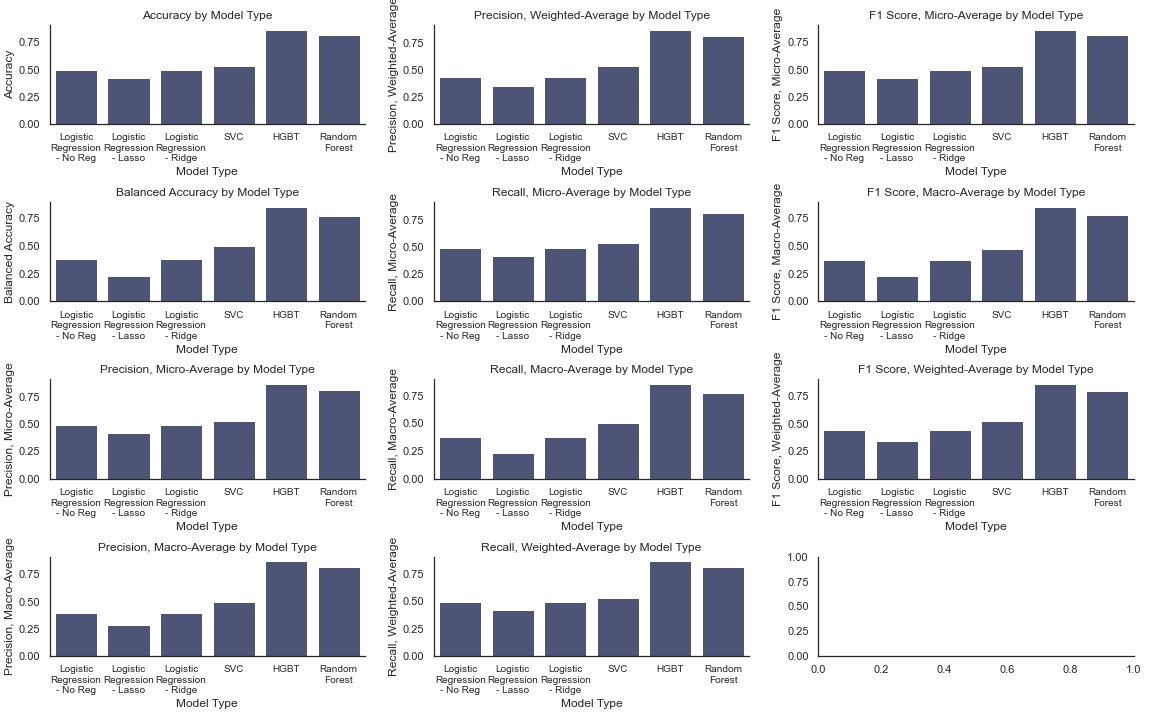
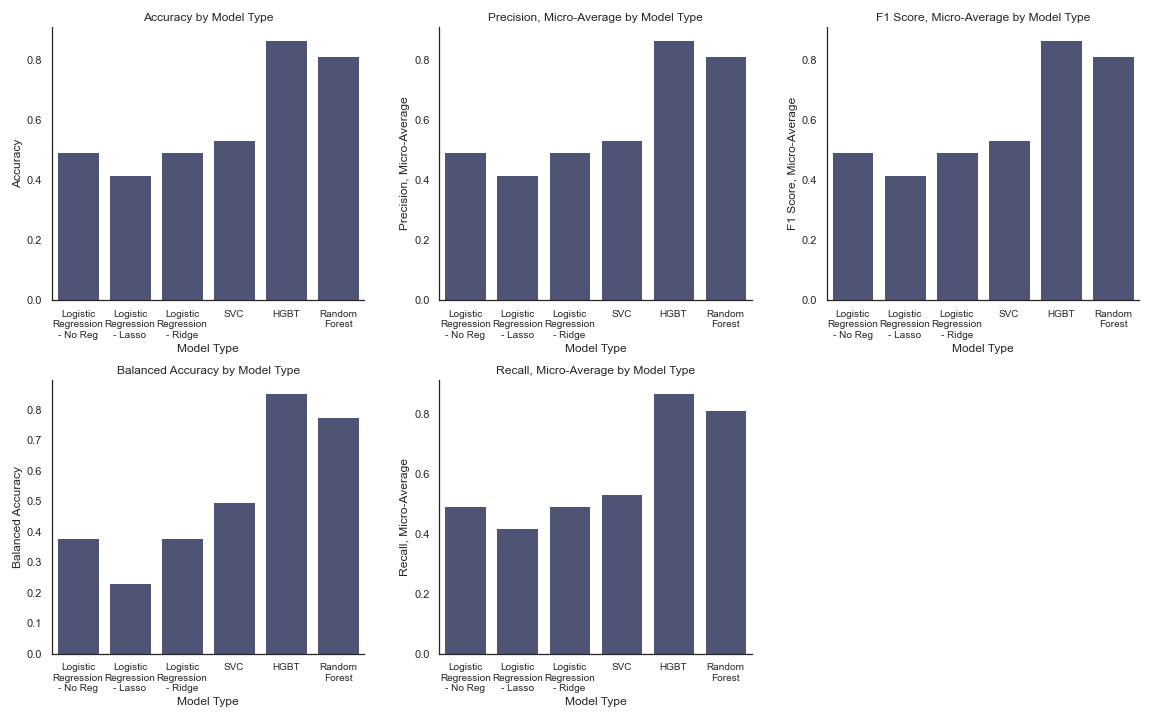
Adding most content for beercharacteristics

Changed region(s): [[0.0, 0.0, 1.0, 1.0], [0.6875, 0.7639, 0.9688, 0.9167]]

diff --git a/docs/_posts/2022-09-08-beer-classification.md b/docs/_posts/2022-09-08-beer-classification.md
@@ -38,7 +38,9 @@ Notebooks and a process walkthrough is provided at the bottom of the post.
 
 After exploring six different families of models, each tested for their best hyperparameters, I selected a Histogram-Based Gradient Boosting Classifier with a balanced accuracy score of .866! **Note**: Balanced accuracy here refers to sklearn's `balanced_accuracy_score`, an average of the class accuracy across all classes.
 
-XX - Model scores & outputs
+|![Model Results](/images/beercharacteristics/model_balanced_accuracy.png)|
+|:--:|
+|*Model Results*|
 
 The tree-based models (Random Forest and Gradient Boosting Classifier) far outperformed non-tree-based counterparts (Logistic Regression and RBF-Kernel Support Vector Classifier). Considering the nature of the data and number of classes, this was not too surprising!
 
@@ -59,14 +61,14 @@ XX - Porter/Stout infographic
 # What I Took Away
 
 ## Technology & Techniques
-As I mentioned, this was an opportunity for me to explore a few new things on the technical side:
+As I mentioned, this was an opportunity for me to explore a number of things on the technical side:
 
-* All of the `pandas`
 * Extensive use of `sklearn`
     * `Pipeline` to formulate
     * Nested CV using `GridsearchCV` and `cross_validate_score`
     * `StratifiedKFold` and stratification in `test_train_split`
     * Custom scoring using individual scores from the `scoring` library
+* All of the `pandas` (as usual)
 * Radar plots from scratch in `matplotlib`
 * `seaborn` for all other vis
 * `textwrap` library for custom plot text wrapping (it's the little things)
@@ -101,9 +103,25 @@ There were a few specific lessons learned, some the hard way:
 **Goals**: Get the data. Make sure the data was there (enough). Check the data had the structure and types I wanted, and transform it if not. Perform veracity and distribution checks on predictors and response.
 
 
-**Collection**: Collection was fairly straightforward. The data came from Kaggle at XX, and I could see even from the Kaggle summary that it was pretty clean. I downloaded the file and pretty quickly moved.
+**Collection**: Collection was fairly straightforward. The data came from Kaggle [here](https://www.kaggle.com/datasets/ruthgn/beer-profile-and-ratings-data-set), and I could see even from the Kaggle summary that it was pretty clean. I downloaded the file and pretty quickly moved. The dataset contained 3,197 unique beers across 934 breweries.
 
-XX - data fields & descriptions
+| Field | Description |
+| :--: | :--: |
+| beer_name | Primary key - identifies the specific beer |
+| style_l1 | Custom 'level 1' style description - the dependent variable in our analysis |
+| min_ibu | Minimum IBU  of the beer |
+| max_ibu | Maximum IBU of the beer |
+| astringency | Astringency of the beer (similar to tannins in wine tasting) |
+| body | Body in terms of mouthfeel |
+| alcohol | Perceived booziness |
+| bitter | Bitterness of the taste |
+| sweet | Sweetness of the taste |
+| sour | Sourness of the taste |
+| salty | Saltiness of the taste |
+| fruits | Fruitiness of the aroma and flavor |
+| hoppy | Hoppiness of the aroma and flavor |
+| spices | Spiciness of the aroma and flavor |
+| malty | Maltiness of the aroma and flavor |
 
 
 **Transformation**: From a transformation standpoint, again, the data was in pretty good shape. The main work here was transforming the 'style' column, which contained 111 categories, some of which had as few as 3-4 instances. However, there was a common structure of "[Beer Style] - [Specific Beer Type]" throughout the set, so splitting the name brought us to 41 beer 'styles'. I also did some minor text formatting here to remove capital letters and spaces for easy indexing and reference in pandas structures.
@@ -197,7 +215,12 @@ pca = PCA()
 svc_estimator = SVC(max_iter=1000)
 
 # Create the Pipeline object
-svc_pipe = Pipeline(steps=[('scaler', scaler), ('pca', pca), ('estimator', svc_estimator)])
+svc_pipe = Pipeline(
+    steps=[
+        ('scaler', scaler),
+        ('pca', pca),
+        ('estimator', svc_estimator)
+        ])
 
 # Create the parameter grid for searching
 svc_param_grid = [
@@ -217,10 +240,36 @@ svc_param_grid = [
 
 In addition, I learned some interesting things about each model's selections:
 
-XX - Model observations
+**Logistic Regression**
+The best logistic regression models are either without regularization or with l2 regularization. This makes sense - we've already reduced to 4-6 principal components, so we shouldn't need much penalization to model complexity, especially removal of variables using l1. We can also see that C-values of 10,000 were most often selected, which supports the idea that little regulariztion is needed. There was instability in the parameter selection, especially in LASSO, which could be further investigated if it becomes relevant.
+
+**SVC**
+Unsurprisingly, the more flexible kernel (RBF) provided best results. All 10 folds selcted a C value of 100.
+
+**HGBT**
+Interestingly, the higher depth was selected (8), which isn't necessarily needed in a boosting algorithm. In addition, the faster learning rate was also chosen every time. In one instance, the lower number of boosters (250) was picked.
+
+**Random Forest**
+This one was not incredibly consistent - ultimately, a depth of 16 was picked, along with the most trees in the forest. The lowest min_samples_split was also picked to allow for the deepest trees and smallest leaves.
 
 ## Final Model Tuning & Output Analysis
 
-**Goals**: Fit the final model on the full dataset, analyze overall performance, deep-dive misses
+**Goals**: Fit the final model on the full dataset, analyze overall performance, understand feature importance, deep-dive misses
 
-XX - add detail
+**Final Model Fit**: First, I refit HGBT hyperparameters to the full test/validation dataset using `GridSearchCV`. The final parameters were:
+
+XX - final parameters
+
+**Performance Analysis**: Then, I looked at the final performance metrics. I was pleasantly surprised - I saw both high and consistent numbers across precision, recall, and f1 scores averaged in the three ways mentioned above.
+
+XX - final performance metrics
+
+**Feature Importance**: Using permutation importance, I examined which features were most critical to the HGBT model. Permutation importance essentially runs multiple permutations / random shuffling of each predictor and measures the impact on a performance metric (balanced accuracy, in this case). 
+
+XX - feature importance
+
+Interestingly, both the IBU metrics acccounted for most of the model! It turns out the beer styles are nearly seperably defined by their bitterness. Next, the alcohol level, hoppiness, and body were the next differentiators. This is interesting - I maybe would've expected to see a more balanced output, incorporating body and maltiness, but maybe this isn't surprising. IBU is also our most detailed metric, on a different scale than the others, and it's an official number. It may just provide more granularity than others.
+
+**Miss Deep-Dive**: Lastly, I deep-dove some of the top missed categories, examining the profiles of the top 3 beers they were mistaken for. Results here were not surprising, especially in our larger categories, as summarizing in the 'What I Did' section.
+
+XX - infographic
